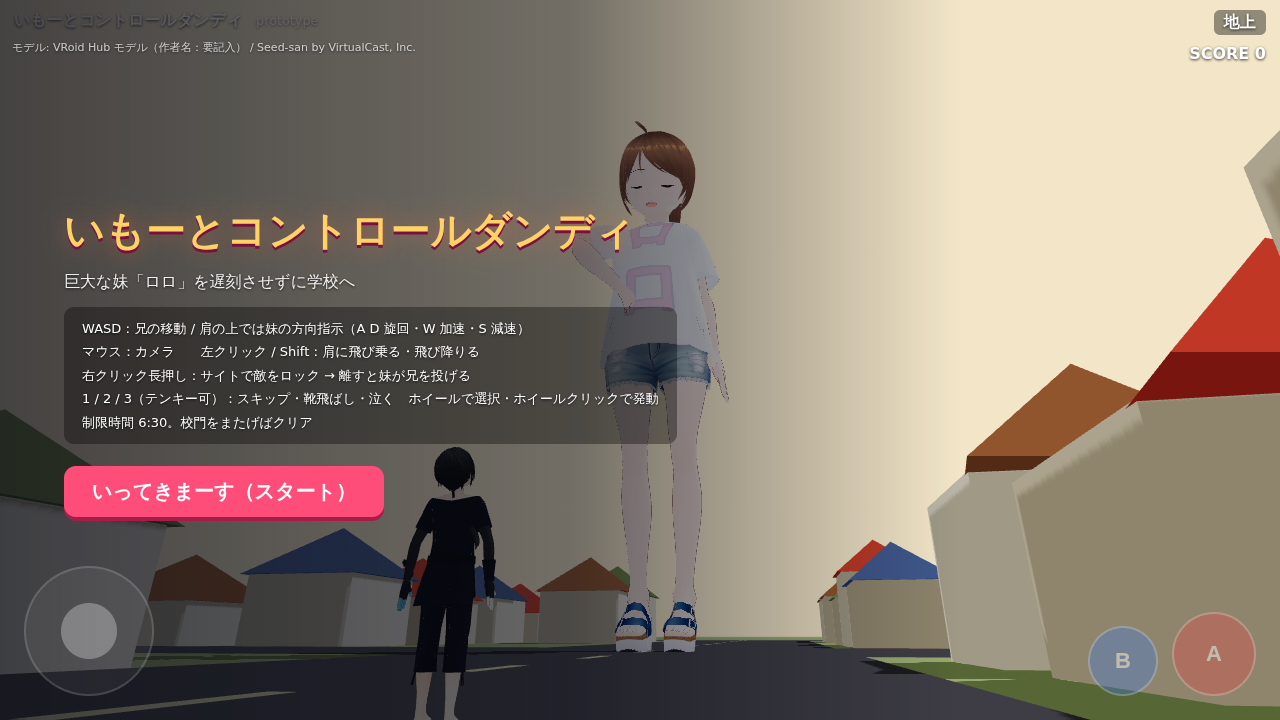
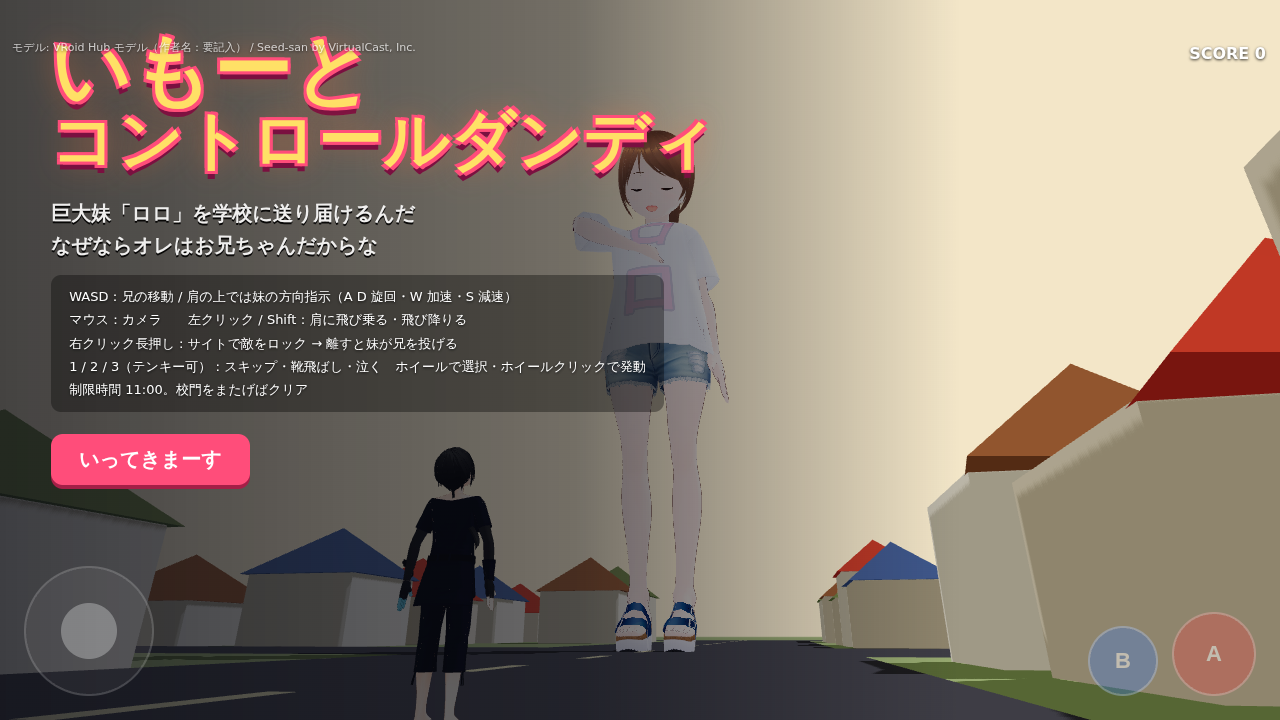
タイトルロゴを大きく太く、説明文を変更、カーソル常時表示。妹の歩幅を半分・速度をさらに半分（制限時間 11:00）。揺れ停止、足音の音量半分。敵弾は体に当たるだけでダメージ無し。編隊は妹に付いて回り、正面で減速して大きく見える。機体を青に
Claude-Session: https://claude.ai/code/session_01LRdSSvDYqsxbS1UhpVjjzZ

Changed region(s): [[0.0312, 0.275, 0.5312, 0.7333], [0.0312, 0.0306, 0.5625, 0.3056], [0.9375, 0.0, 1.0, 0.0611]]

diff --git a/src/entities/Fighters.tsx b/src/entities/Fighters.tsx
@@ -15,14 +15,20 @@ const nextT = new THREE.Vector3()
 const m4 = new THREE.Matrix4()
 const q = new THREE.Quaternion()
 
-/** 妹ローカルの点列 → ワールド（出現時の妹の位置・向きで固定） */
-function buildCurve(origin: THREE.Vector3, yaw: number): THREE.CatmullRomCurve3 {
-  const pts = FIGHTERS.path.map(([x, y, z]) => {
-    const wx = origin.x + Math.cos(yaw) * x + Math.sin(yaw) * z
-    const wz = origin.z - Math.sin(yaw) * x + Math.cos(yaw) * z
-    return new THREE.Vector3(wx, y, wz)
-  })
+/** 妹ローカルの点列（x=右, z=前）。ワールドへは毎フレーム妹の位置・向きで変換するので、編隊は妹に付いて回る */
+function buildCurve(): THREE.CatmullRomCurve3 {
+  const pts = FIGHTERS.path.map(([x, y, z]) => new THREE.Vector3(x, y, z))
   return new THREE.CatmullRomCurve3(pts, true, 'catmullrom', 0.5)
+}
+const localP = new THREE.Vector3()
+const localN = new THREE.Vector3()
+function toWorld(local: THREE.Vector3, out: THREE.Vector3) {
+  const im = refs.imouto
+  const yaw = im?.rotation.y ?? 0
+  const ox = im?.position.x ?? 0
+  const oz = im?.position.z ?? 0
+  out.set(ox + Math.cos(yaw) * local.x + Math.sin(yaw) * local.z, local.y, oz - Math.sin(yaw) * local.x + Math.cos(yaw) * local.z)
+  return out
 }
 
 /** 機体（プリミティブ。ブルーインパルス風の白×青） */
@@ -35,15 +41,15 @@ function JetMesh() {
     <group>
       <mesh rotation={[-Math.PI / 2, 0, 0]} castShadow>
         <coneGeometry args={[s * 0.09, s, 10]} />
-        <meshToonMaterial color="#f4f6ff" gradientMap={grad} />
+        <meshToonMaterial color="#1f3fbf" gradientMap={grad} />
       </mesh>
       <mesh position={[0, 0, -s * 0.1]} castShadow>
-        <boxGeometry args={[s * 0.8, s * 0.03, s * 0.28]} />
-        <meshToonMaterial color="#2a5bd7" gradientMap={grad} />
+        <boxGeometry args={[s * 0.8, s * 0.04, s * 0.28]} />
+        <meshToonMaterial color="#f4f6ff" gradientMap={grad} />
       </mesh>
       <mesh position={[0, s * 0.09, -s * 0.4]} castShadow>
-        <boxGeometry args={[s * 0.03, s * 0.2, s * 0.16]} />
-        <meshToonMaterial color="#2a5bd7" gradientMap={grad} />
+        <boxGeometry args={[s * 0.04, s * 0.2, s * 0.16]} />
+        <meshToonMaterial color="#e63946" gradientMap={grad} />
       </mesh>
       <mesh position={[0, s * 0.05, s * 0.15]}>
         <sphereGeometry args={[s * 0.07, 8, 8]} />
@@ -70,10 +76,7 @@ interface Pilot {
 export function Fighters() {
   const [gen, setGen] = useState(0)
   const [mounted, setMounted] = useState(0)
-  const curve = useMemo(() => {
-    const im = refs.imouto
-    return buildCurve(im?.position ?? new THREE.Vector3(), im?.rotation.y ?? 0)
-  }, [gen])
+  const curve = useMemo(() => buildCurve(), [gen])
   const groups = useRef<THREE.Group[]>([])
   const ents = useRef<Enemy[]>([])
   const u = useRef(0)
@@ -132,7 +135,13 @@ export function Fighters() {
     }
     // 編隊の位置
     const stunned = isStunned()
-    u.current = (u.current + ((stunned ? FIGHTERS.speed * 0.15 : FIGHTERS.speed) * dt) / len) % 1
+    // 妹の正面付近では減速してホバリング気味に（ロックオンしやすく、大きく見える）
+    curve.getPointAt(u.current, localP)
+    const ang = Math.abs(Math.atan2(localP.x, localP.z)) * (180 / Math.PI)
+    const inFront = localP.z > 0 && ang < FIGHTERS.hoverAngleDeg && Math.hypot(localP.x, localP.z) < FIGHTERS.hoverDist
+    let spd = FIGHTERS.speed * (inFront ? FIGHTERS.hoverSpeedMul : 1)
+    if (stunned) spd *= 0.15
+    u.current = (u.current + (spd * dt) / len) % 1
     const alive = ents.current.filter((e) => e.alive)
     ents.current.forEach((e, i) => {
       const g = groups.current[i]
@@ -142,13 +151,16 @@ export function Fighters() {
       const side = i === 0 ? 0 : i % 2 ? -1 : 1
       const du = (row * FIGHTERS.spacing * 1.2) / len
       const uu = (u.current - du + 1) % 1
-      curve.getPointAt(uu, e.pos)
-      curve.getTangentAt(uu, tangent)
+      curve.getPointAt(uu, localP)
+      toWorld(localP, e.pos)
+      curve.getPointAt((uu + 0.01) % 1, localN)
+      toWorld(localN, nextT)
+      tangent.subVectors(nextT, e.pos).normalize()
       const right = new THREE.Vector3().crossVectors(tangent, up).normalize()
       e.pos.addScaledVector(right, side * row * FIGHTERS.spacing)
+      nextT.addScaledVector(right, side * row * FIGHTERS.spacing)
       g.position.copy(e.pos)
       // 向きとバンク
-      curve.getPointAt((uu + 0.01) % 1, nextT)
       m4.lookAt(nextT, e.pos, up)
       q.setFromRotationMatrix(m4)
       g.quaternion.copy(q)
@@ -162,7 +174,7 @@ export function Fighters() {
     if (im && alive.length > 0 && fireTimer.current <= 0 && !stunned) {
       fireTimer.current = FIGHTERS.missileInterval
       const shooter = alive[Math.floor(Math.random() * alive.length)]
-      const target = new THREE.Vector3(im.position.x, im.position.y + 35, im.position.z)
+      const target = new THREE.Vector3(im.position.x + (Math.random() - 0.5) * 10, im.position.y + 6 + Math.random() * 48, im.position.z + (Math.random() - 0.5) * 8)
       const vel = target.sub(shooter.pos).normalize().multiplyScalar(FIGHTERS.missileSpeed)
       missiles.current.push({ pos: shooter.pos.clone(), vel, t: 0 })
     }
@@ -170,7 +182,7 @@ export function Fighters() {
       const ms = missiles.current[i]
       ms.t += dt
       ms.pos.addScaledVector(ms.vel, dt)
-      const hit = im && Math.hypot(ms.pos.x - im.position.x, ms.pos.y - (im.position.y + 35), ms.pos.z - im.position.z) < HIT.radius
+      const hit = im && Math.hypot(ms.pos.x - im.position.x, ms.pos.z - im.position.z) < HIT.radius * 0.5 && ms.pos.y > 0 && ms.pos.y < 60
       if (hit) emit('imouto.hit', { x: ms.pos.x, y: ms.pos.y, z: ms.pos.z })
       if (hit || ms.t > 6 || ms.pos.y < 0) missiles.current.splice(i, 1)
     }

diff --git a/src/index.css b/src/index.css
@@ -66,7 +66,7 @@ canvas { display: block; }
 .timer.urgent .t { color: #ff5c7a; animation: blink 1s steps(2) infinite; }
 @keyframes blink { 50% { opacity: .4 } }
 .overlay { position: absolute; inset: 0; display: flex; flex-direction: column; align-items: center; justify-content: center; gap: 14px; background: rgba(10,12,20,.55); pointer-events: auto; text-align: center; padding: 20px; }
-.overlay.title-screen { align-items: flex-start; text-align: left; padding-left: 5%; background: linear-gradient(90deg, rgba(10,12,20,.75) 0%, rgba(10,12,20,.55) 45%, rgba(10,12,20,0) 75%); }
+.overlay.title-screen { align-items: flex-start; text-align: left; padding-left: 4%; justify-content: flex-start; padding-top: 4vh; cursor: default; background: linear-gradient(90deg, rgba(10,12,20,.75) 0%, rgba(10,12,20,.55) 45%, rgba(10,12,20,0) 75%); }
 .overlay.title-screen .big { font-size: 40px; }
 .overlay .big { font-size: 44px; font-weight: 900; color: #ffd166; text-shadow: 0 3px 0 #7a1040, 0 0 24px rgba(255,120,60,.6); }
 .overlay .sub { font-size: 16px; opacity: .9; }
@@ -75,3 +75,11 @@ canvas { display: block; }
 .overlay .start { margin-top: 8px; font-size: 20px; font-weight: 900; padding: 12px 28px; border-radius: 12px; border: 0; background: #ff4d7a; color: #fff; cursor: pointer; box-shadow: 0 4px 0 #a41f47; }
 .overlay .start:disabled { background: #666; box-shadow: none; cursor: default; }
 .overlay.late .big { color: #9ad0ff; text-shadow: 0 3px 0 #1a3a6a; }
+
+.logo { width: 92vw; display: flex; flex-direction: column; line-height: 1.0; font-weight: 900; font-family: "M PLUS Rounded 1c", "Rounded Mplus 1c", "Hiragino Maru Gothic ProN", "Yu Gothic UI", "Meiryo", "Noto Sans JP", system-ui, sans-serif; color: #ffe066; letter-spacing: .03em;
+  text-shadow: 3px 3px 0 #ff4d7a, -3px 3px 0 #ff4d7a, 3px -3px 0 #ff4d7a, -3px -3px 0 #ff4d7a, 0 8px 0 #7a1040, 0 0 30px rgba(255,120,60,.6); }
+.logo span:first-child { font-size: min(12.5vw, 11vh); }
+.logo span:last-child { font-size: min(10.4vw, 9vh); }
+.hud-top.hidden { display: none; }
+.overlay .story { font-size: min(2.6vw, 20px); font-weight: 800; line-height: 1.6; text-shadow: 0 2px 0 #000; margin-top: 10px; }
+.app, .app canvas { cursor: default; }

diff --git a/src/config/waves.ts b/src/config/waves.ts
@@ -6,11 +6,15 @@ export const FIGHTERS = {
   fromZ: -500,
   /** 編隊の機数と V 字の間隔（m） */
   count: 5,
-  spacing: 18,
+  spacing: 22,
   /** 巡航速度 m/s */
-  speed: 95,
+  speed: 70,
+  /** 妹の正面（この距離・角度内）では減速してホバリング気味に留まる */
+  hoverDist: 200,
+  hoverAngleDeg: 70,
+  hoverSpeedMul: 0.3,
   /** 機体の大きさ（m、全長） */
-  size: 24,
+  size: 36,
   /** スモーク色（機体順） */
   smokeColors: ['#ff4d6d', '#ffd166', '#06d6a0', '#4cc9f0', '#f72585', '#ffffff'],
   /** スモークの長さ（点数）と幅（m） */
@@ -18,18 +22,16 @@ export const FIGHTERS = {
   smokeWidth: 5,
   /** 妹を基準にしたパス（ローカル：x=右, y=高さ, z=前）。前を横切って後ろへ抜けてまた前へ */
   path: [
-    [-420, 90, 260],
-    [-120, 70, 140],
-    [120, 60, 60],
-    [380, 90, -80],
-    [380, 130, -320],
-    [80, 120, -420],
-    [-260, 100, -300],
-    [-420, 80, -60],
-    [-360, 70, 200],
-    [-120, 60, 320],
-    [200, 80, 340],
-    [420, 110, 200],
+    [-180, 78, 110],
+    [-80, 72, 135],
+    [0, 68, 140],
+    [80, 72, 135],
+    [180, 78, 110],
+    [240, 100, -30],
+    [170, 120, -170],
+    [0, 130, -230],
+    [-170, 120, -170],
+    [-240, 100, -30],
   ] as [number, number, number][],
   /** 何秒に1発ミサイルを撃つか（編隊全体） */
   missileInterval: 3.2,
@@ -66,10 +68,12 @@ export const TANKS = {
   size: { w: 12, h: 7, d: 20 },
 }
 
-/** 被弾時の妹の反応 */
+/** 被弾時の妹の反応（ダメージ無し。驚くだけ） */
 export const HIT = {
-  slowSec: 0.5,
-  slowFactor: 0.25,
+  slowSec: 0,
+  slowFactor: 1,
+  /** 驚き顔の秒数 */
+  faceSec: 0.4,
   /** 命中判定の半径（m、妹の胴体中心から） */
   radius: 30,
 }

diff --git a/src/config/game.ts b/src/config/game.ts
@@ -109,7 +109,7 @@ export const IMOUTO = {
     flipY: false,
   },
   /** 歩行速度（m/s）。1歩で車数台分。妹は自動で歩き続ける */
-  walkSpeed: 11,
+  walkSpeed: 5.5,
   /** W で加速、S で減速（倍率） */
   boostMul: 1.4,
   slowMul: 0.5,
@@ -121,7 +121,7 @@ export const IMOUTO = {
   accel: 1.4,
   /** 手続きアニメ（ズシーン歩き） */
   /** 子どもの横断歩道歩き：腕をピンと伸ばして大きく前後、大股 */
-  walk: { legSwing: 0.85, kneeBend: 0.35, armSwing: 1.0, armDown: 1.35, bodyBob: 0.02, lean: 0.04, straightArms: true },
+  walk: { legSwing: 0.42, kneeBend: 0.3, armSwing: 0.5, armDown: 1.35, bodyBob: 0.02, lean: 0.04, straightArms: true },
   /** 表情：口を大きく開けた笑顔（happy＋aa）。歩行中は少し強める */
   face: { happy: 0.4, mouthOpen: 0.35, mouthOpenWalk: 0.35, blinkPeriod: 3.5 },
   /** 肩の表面をレイキャストで探す（身長比）。肩関節から頭方向へ inward、真上 up の点から下向きに撃つ */
@@ -227,7 +227,7 @@ export const CAMERA = {
   followLerp: 7,
   /** シェイク減衰 */
   shakeDecay: 9,
-  shakeAmp: 0.3,
+  shakeAmp: 0, // 一旦停止（後で調整）
 }
 
 export const STAGE = {
@@ -248,7 +248,7 @@ export const STAGE = {
 /** ゲーム進行（区間・校門・制限時間） */
 export const GAME = {
   /** 制限時間（秒） */
-  timeLimitSec: 390,
+  timeLimitSec: 660,
   /** 残りこの秒数で妹が「こわがる」 */
   scaredSec: 60,
   /** 校門の z（妹は +Z へ進む）。スタートは IMOUTO.spawn */

diff --git a/src/ui/Overlays.tsx b/src/ui/Overlays.tsx
@@ -46,8 +46,15 @@ export function Overlays() {
       )}
       {phase === 'title' && (
         <div className="overlay title-screen">
-          <div className="big">いもーとコントロールダンディ</div>
-          <div className="sub">巨大な妹「{IMOUTO.name}」を遅刻させずに学校へ</div>
+          <div className="logo">
+            <span>いもーと</span>
+            <span>コントロールダンディ</span>
+          </div>
+          <div className="sub story">
+            巨大妹「{IMOUTO.name}」を学校に送り届けるんだ
+            <br />
+            なぜならオレはお兄ちゃんだからな
+          </div>
           <div className="howto">
             <div>WASD：兄の移動 / 肩の上では妹の方向指示（A D 旋回・W 加速・S 減速）</div>
             <div>マウス：カメラ　　左クリック / Shift：肩に飛び乗る・飛び降りる</div>
@@ -56,7 +63,7 @@ export function Overlays() {
             <div>制限時間 {fmt(GAME.timeLimitSec)}。校門をまたげばクリア</div>
           </div>
           <button className="start" disabled={!ready} onClick={() => setPhase('play')}>
-            {ready ? 'いってきまーす（スタート）' : 'モデル読み込み中…'}
+            {ready ? 'いってきまーす' : 'モデル読み込み中…'}
           </button>
         </div>
       )}

diff --git a/src/entities/GroundEnemies.tsx b/src/entities/GroundEnemies.tsx
@@ -112,7 +112,7 @@ export function GroundEnemies() {
     if (aliveTanks.length > 0 && shellTimer.current <= 0 && !isStunned()) {
       shellTimer.current = TANKS.shellInterval
       const t = aliveTanks[Math.floor(Math.random() * aliveTanks.length)]
-      const target = tmpV.set(im.position.x, im.position.y + 30, im.position.z)
+      const target = tmpV.set(im.position.x + (Math.random() - 0.5) * 10, 4 + Math.random() * 40, im.position.z + (Math.random() - 0.5) * 8)
       const vel = target.clone().sub(t.pos).normalize().multiplyScalar(TANKS.shellSpeed)
       shells.current.push({ pos: t.pos.clone().setY(8), vel, t: 0 })
     }
@@ -120,7 +120,7 @@ export function GroundEnemies() {
       const s = shells.current[i]
       s.t += dt
       s.pos.addScaledVector(s.vel, dt)
-      const hit = Math.hypot(s.pos.x - im.position.x, s.pos.y - (im.position.y + 30), s.pos.z - im.position.z) < HIT.radius
+      const hit = Math.hypot(s.pos.x - im.position.x, s.pos.z - im.position.z) < HIT.radius * 0.5 && s.pos.y > 0 && s.pos.y < 60
       if (hit) emit('imouto.hit', { x: s.pos.x, y: s.pos.y, z: s.pos.z })
       if (hit || s.t > 8 || s.pos.y < 0) shells.current.splice(i, 1)
     }

diff --git a/src/entities/Imouto.tsx b/src/entities/Imouto.tsx
@@ -125,7 +125,7 @@ export function Imouto() {
     }
   }, [vrm, choice, setLoaded, setResolved, scale])
 
-  useEffect(() => on('imouto.hit', () => { hitTimer.current = HIT.slowSec }), [])
+  useEffect(() => on('imouto.hit', () => { hitTimer.current = HIT.faceSec }), [])
   useEffect(() => on('bro.throw', () => { throwK.current = 0 }), [])
 
   useFrame((_, dt) => {
@@ -161,7 +161,7 @@ export function Imouto() {
 
     g.rotation.y -= m.x * IMOUTO.turnSpeed * dt
     hitTimer.current = Math.max(0, hitTimer.current - dt)
-    let speedMul = hitTimer.current > 0 ? HIT.slowFactor : 1
+    let speedMul = 1
     if (sk === 'skip') speedMul = SKILLS.skip.speedMul
     if (sk === 'shoe' || sk === 'cry') speedMul = 0
     // 自動歩行：常に前進。W で加速、S で減速。兄は方向だけ変える

diff --git a/src/ui/HUD.tsx b/src/ui/HUD.tsx
@@ -9,6 +9,7 @@ import { useEffect, useState } from 'react'
 
 export function HUD() {
   const mode = useGame((s) => s.mode)
+  const phase = useGame((s) => s.phase)
   const loaded = useGame((s) => s.loaded)
   const ready = loaded.imouto && loaded.bro
   const resolved = useModels((s) => s.resolved)
@@ -25,7 +26,7 @@ export function HUD() {
 
   return (
     <div className="hud">
-      <div className="hud-top">
+      <div className={`hud-top ${phase === 'title' ? 'hidden' : ''}`}>
         <div className="title">いもーとコントロールダンディ <span className="step">prototype</span></div>
         <div className="mode">{mode === 'shoulder' ? '肩上' : mode === 'ground' ? '地上' : mode === 'thrown' ? '投擲' : '…'}</div>
       </div>

diff --git a/src/entities/Enemies.tsx b/src/entities/Enemies.tsx
@@ -91,6 +91,10 @@ export function Explosions() {
       list.current.push({ pos: new THREE.Vector3(x, y, z), t: 0, dust: false })
       if (list.current.length > pool.length) list.current.shift()
     })
+    const off3 = on('imouto.hit', ({ x, y, z }) => {
+      list.current.push({ pos: new THREE.Vector3(x, y, z), t: 0, dust: false })
+      if (list.current.length > pool.length) list.current.shift()
+    })
     const off2 = on('imouto.step', ({ x, z, strength }) => {
       if (strength < 0.3) return
       list.current.push({ pos: new THREE.Vector3(x, 1, z), t: 0, dust: true })
@@ -99,6 +103,7 @@ export function Explosions() {
     return () => {
       off1()
       off2()
+      off3()
     }
   }, [pool])
 

diff --git a/src/systems/audio.ts b/src/systems/audio.ts
@@ -261,8 +261,8 @@ export function seChime() {
 export function bindAudio(): () => void {
   const offs = [
     on('imouto.step', ({ strength }) => {
-      playVoice('se.step', Math.min(1, 0.5 + strength)).then((ok) => {
-        if (!ok) seStomp(Math.min(1, strength))
+      playVoice('se.step', Math.min(1, 0.5 + strength) * 0.5).then((ok) => {
+        if (!ok) seStomp(Math.min(1, strength) * 0.5)
       })
     }),
     on('enemy.hit', () => {
